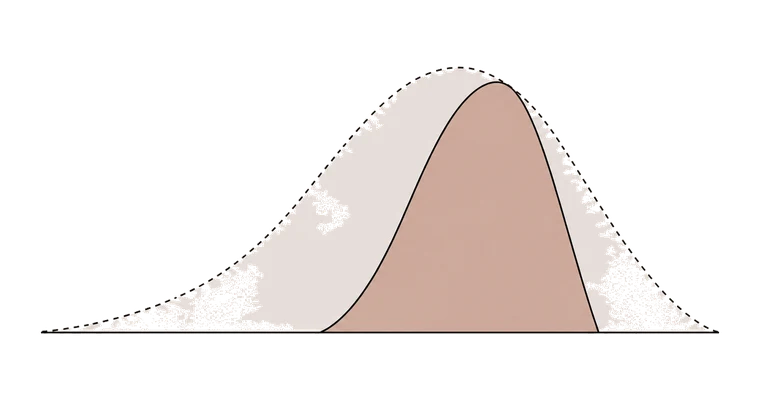
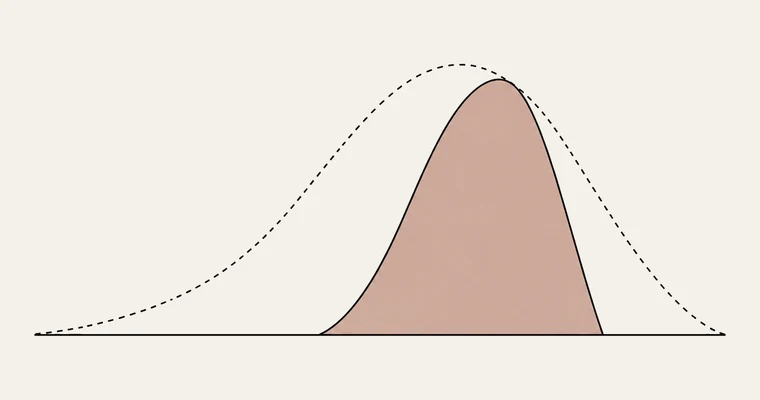
v2: science predict graphic - remove mottled under-curve shading; wine case 03 - rebuild as Recipe Reverse Engineering graphic (crisp SVG with clock timeline), drop redundant result line

diff --git a/v2/wine.html b/v2/wine.html
@@ -259,33 +259,48 @@
         <div class="num">CASE 03 &middot; Recipe reverse-engineering</div>
         <h3>Matching a target the flavor houses missed.</h3>
         <div class="visual" aria-hidden="true">
-          <svg viewBox="0 0 280 110">
-            <!-- target on left -->
-            <circle cx="40" cy="40" r="22" fill="none" stroke="#0E0E10" stroke-width="1.1"/>
-            <circle cx="40" cy="40" r="14" fill="none" stroke="#0E0E10" stroke-width="1.1"/>
-            <circle cx="40" cy="40" r="6"  fill="#0E0E10"/>
-            <text x="40" y="92" text-anchor="middle" font-family="JetBrains Mono, monospace" font-size="9" letter-spacing="1.2" fill="#6B6258">TARGET</text>
-            <!-- 9 missed dots, scattered off target -->
-            <g fill="#6B6258" opacity="0.5">
-              <circle cx="100" cy="22" r="3"/>
-              <circle cx="118" cy="28" r="3"/>
-              <circle cx="135" cy="24" r="3"/>
-              <circle cx="108" cy="40" r="3"/>
-              <circle cx="128" cy="44" r="3"/>
-              <circle cx="144" cy="38" r="3"/>
-              <circle cx="102" cy="56" r="3"/>
-              <circle cx="122" cy="58" r="3"/>
-              <circle cx="138" cy="54" r="3"/>
+          <svg viewBox="0 0 320 160" style="max-height:150px;">
+            <!-- TARGET (left) -->
+            <circle cx="44" cy="42" r="21" fill="none" stroke="#0E0E10" stroke-width="1.1"/>
+            <circle cx="44" cy="42" r="13" fill="none" stroke="#0E0E10" stroke-width="1.1"/>
+            <circle cx="44" cy="42" r="5.5" fill="#0E0E10"/>
+            <text x="44" y="84" text-anchor="middle" font-family="JetBrains Mono, monospace" font-size="9" letter-spacing="0.6" fill="#6B6258">TARGET</text>
+            <!-- 9 attempts, all off target (open dots) -->
+            <g fill="none" stroke="#6B6258" stroke-width="1.1">
+              <circle cx="136" cy="30" r="2.8"/>
+              <circle cx="154" cy="24" r="2.8"/>
+              <circle cx="172" cy="30" r="2.8"/>
+              <circle cx="144" cy="44" r="2.8"/>
+              <circle cx="162" cy="46" r="2.8"/>
+              <circle cx="180" cy="40" r="2.8"/>
+              <circle cx="138" cy="58" r="2.8"/>
+              <circle cx="158" cy="58" r="2.8"/>
+              <circle cx="176" cy="54" r="2.8"/>
             </g>
-            <text x="122" y="92" text-anchor="middle" font-family="JetBrains Mono, monospace" font-size="9" letter-spacing="1.2" fill="#6B6258">9 MISSES</text>
+            <text x="158" y="84" text-anchor="middle" font-family="JetBrains Mono, monospace" font-size="9" letter-spacing="0.6" fill="#6B6258">9 ATTEMPTS MISSED</text>
             <!-- arrow -->
-            <line x1="172" y1="40" x2="202" y2="40" stroke="#7A2E1F" stroke-width="1"/>
-            <polygon points="196,36 202,40 196,44" fill="#7A2E1F"/>
-            <!-- Tastry match on right -->
-            <circle cx="240" cy="40" r="22" fill="none" stroke="#7A2E1F" stroke-width="1.3"/>
-            <circle cx="240" cy="40" r="14" fill="none" stroke="#7A2E1F" stroke-width="1.3"/>
-            <circle cx="240" cy="40" r="6"  fill="#7A2E1F"/>
-            <text x="240" y="92" text-anchor="middle" font-family="JetBrains Mono, monospace" font-size="9" letter-spacing="1.2" fill="#7A2E1F">FIRST TRY</text>
+            <line x1="224" y1="42" x2="244" y2="42" stroke="#7A2E1F" stroke-width="1"/>
+            <polygon points="238,38 244,42 238,46" fill="#7A2E1F"/>
+            <!-- FIRST TRY (right) -->
+            <circle cx="282" cy="42" r="21" fill="none" stroke="#7A2E1F" stroke-width="1.2"/>
+            <circle cx="282" cy="42" r="13" fill="none" stroke="#7A2E1F" stroke-width="1.2"/>
+            <circle cx="282" cy="42" r="5.5" fill="#7A2E1F"/>
+            <text x="282" y="84" text-anchor="middle" font-family="JetBrains Mono, monospace" font-size="9" letter-spacing="0.6" fill="#7A2E1F">FIRST TRY</text>
+            <!-- timeline: 18 months -> 2 weeks -->
+            <g stroke="#6B6258" stroke-width="1.1" fill="none">
+              <circle cx="78" cy="130" r="7"/>
+              <line x1="78" y1="130" x2="78" y2="124"/>
+              <line x1="78" y1="130" x2="83" y2="131"/>
+            </g>
+            <text x="92" y="134" font-family="JetBrains Mono, monospace" font-size="9.5" letter-spacing="0.8" fill="#6B6258">18 MONTHS</text>
+            <line x1="162" y1="130" x2="182" y2="130" stroke="#6B6258" stroke-width="1"/>
+            <polygon points="176,126 182,130 176,134" fill="#6B6258"/>
+            <g stroke="#7A2E1F" stroke-width="1.1" fill="none">
+              <circle cx="196" cy="130" r="7"/>
+              <line x1="196" y1="130" x2="196" y2="124"/>
+              <line x1="196" y1="130" x2="201" y2="131"/>
+            </g>
+            <text x="210" y="134" font-family="JetBrains Mono, monospace" font-size="9.5" letter-spacing="0.8" fill="#7A2E1F">2 WEEKS</text>
           </svg>
         </div>
         <p>
@@ -296,7 +311,6 @@
           Tastry matched the target on the first try in two weeks. From chemistry
           alone, with no language descriptors involved.
         </p>
-        <div class="result">9 attempts → 1 &middot; 18 months → 2 weeks</div>
       </div>
 
       <div class="case">